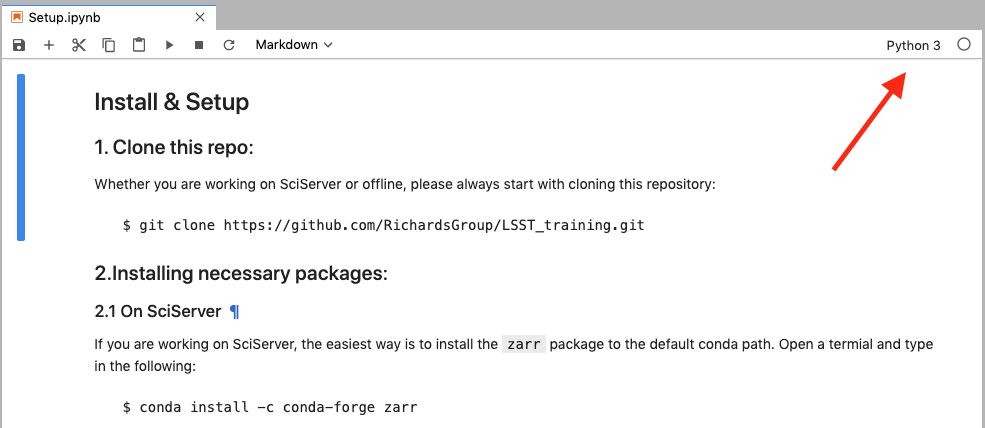
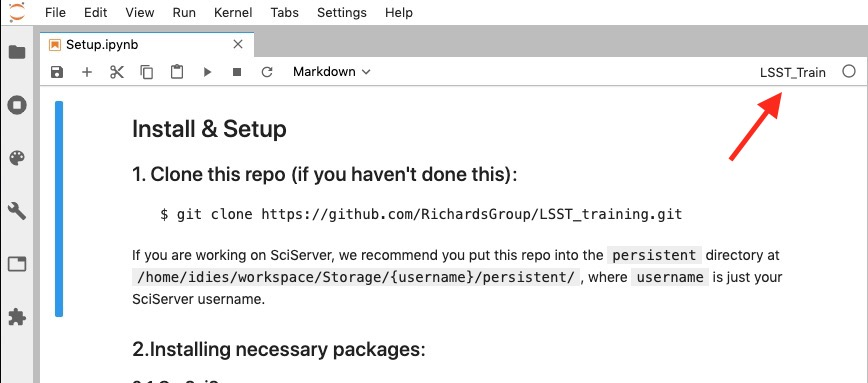
clarify setup procedure

Changed region(s): [[0.0, 0.0, 1.0, 1.0], [0.1244, 0.517, 0.8088, 0.5744]]

diff --git a/README.md b/README.md
@@ -37,8 +37,9 @@ necessary compute environment are provided in
 Once you complete the setup process, you can start exploring our training data 
 from the notebook [Getting_started.ipynb](Script_NBs/00_Getting_started.ipynb).
 
-**Note:** The `utils.py` in the Script_NBs folder must be kept in the same directory 
-as the Get_started.ipynb is in order for the convenience functions to work properly.
+**NOTE:** The `utils.py` in the Script_NBs folder must be kept in the same directory 
+as the Getting_started.ipynb (or any other notebooks/scripts from which you want to access 
+the training data), in order for the convenience functions to work properly.
 
 ### The Training Set
 The training set consists of three catalogs, a quasar catalog (~25k
